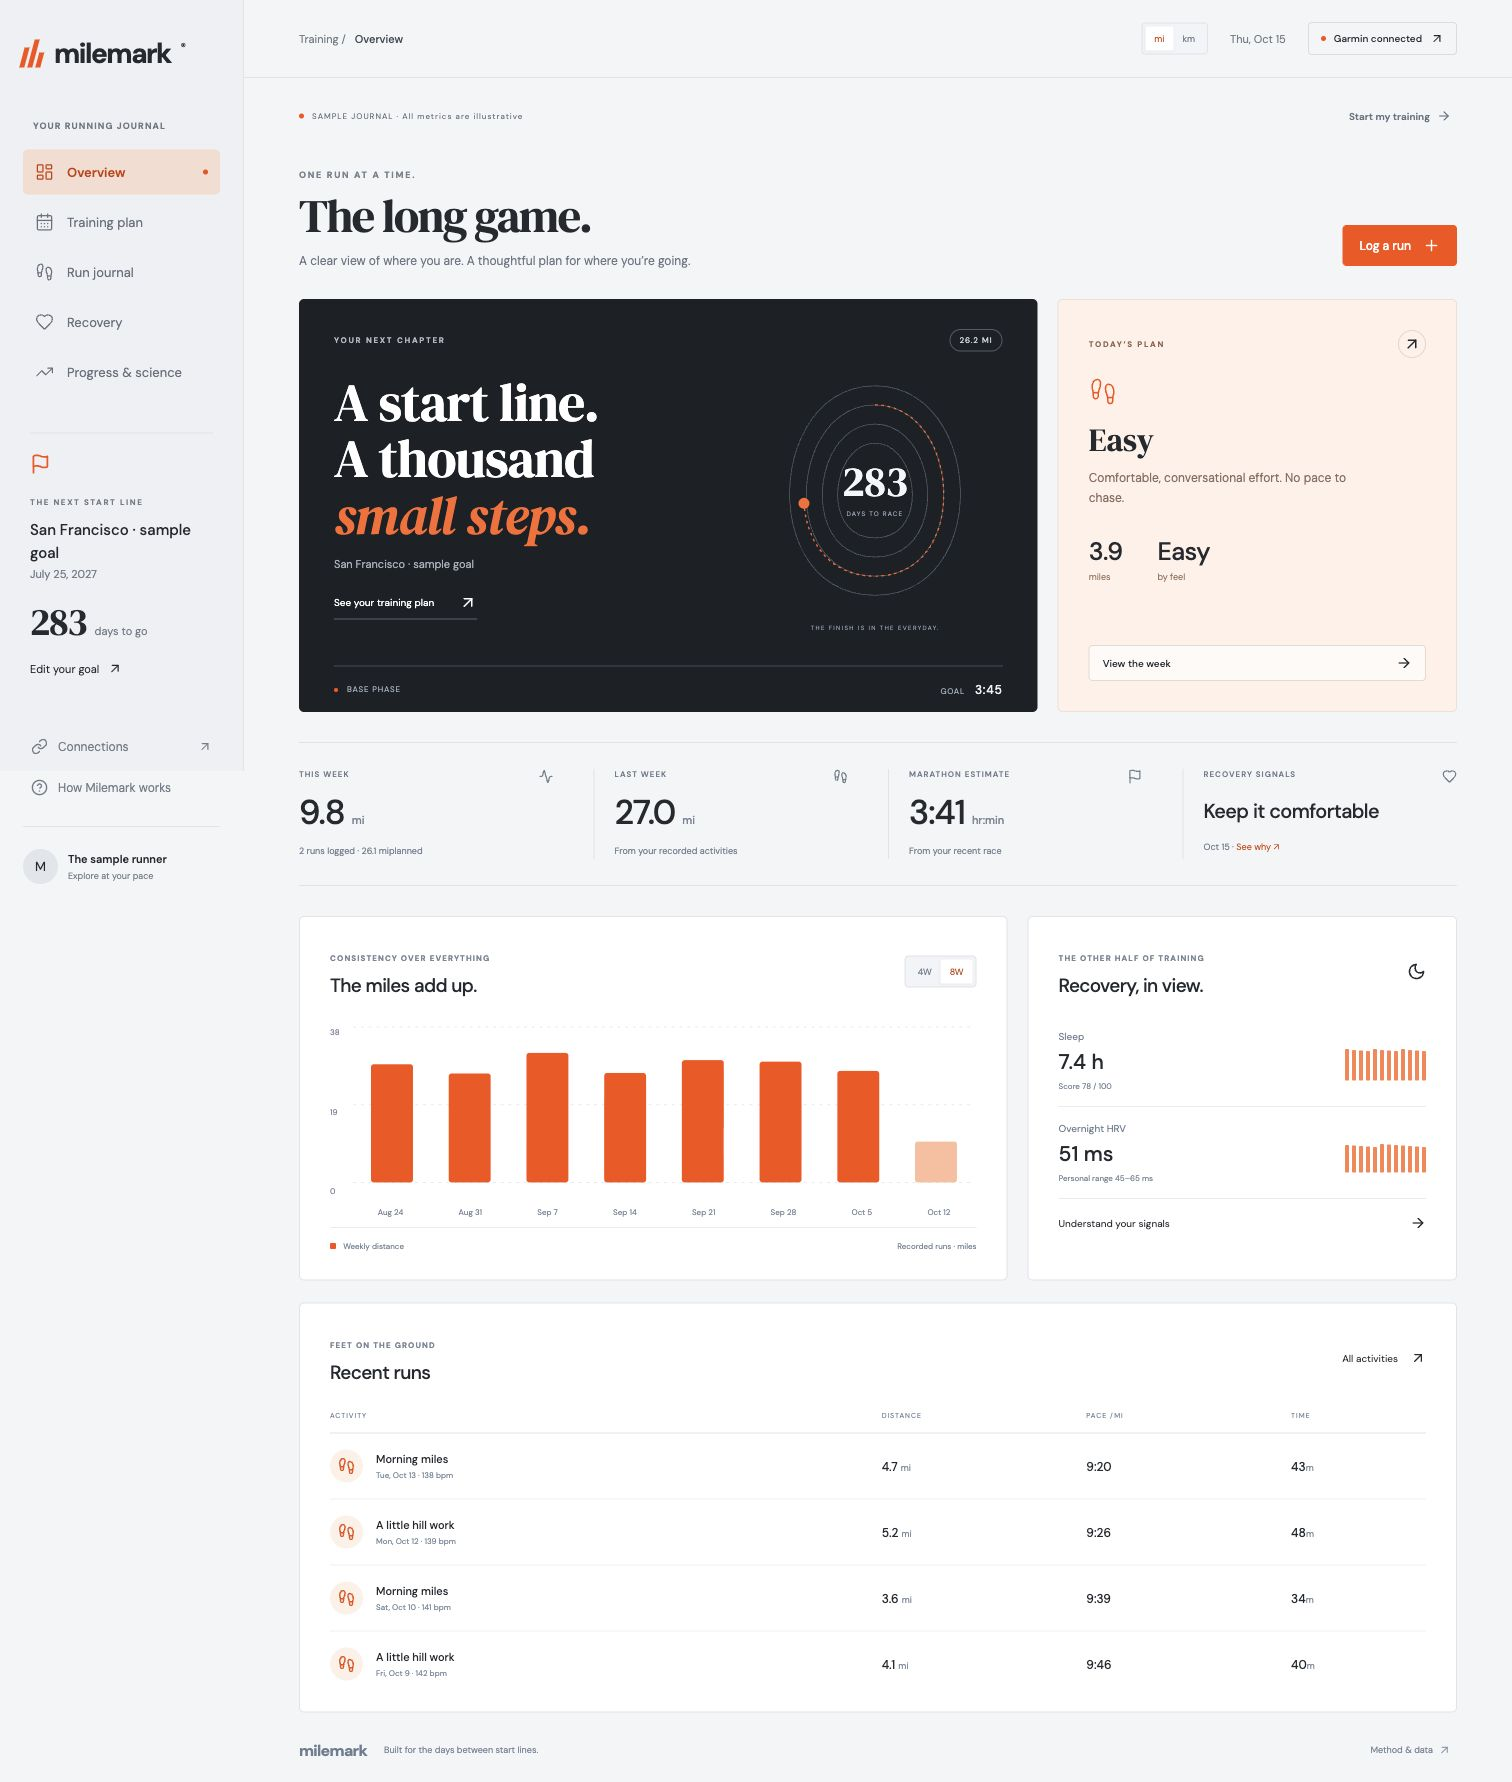
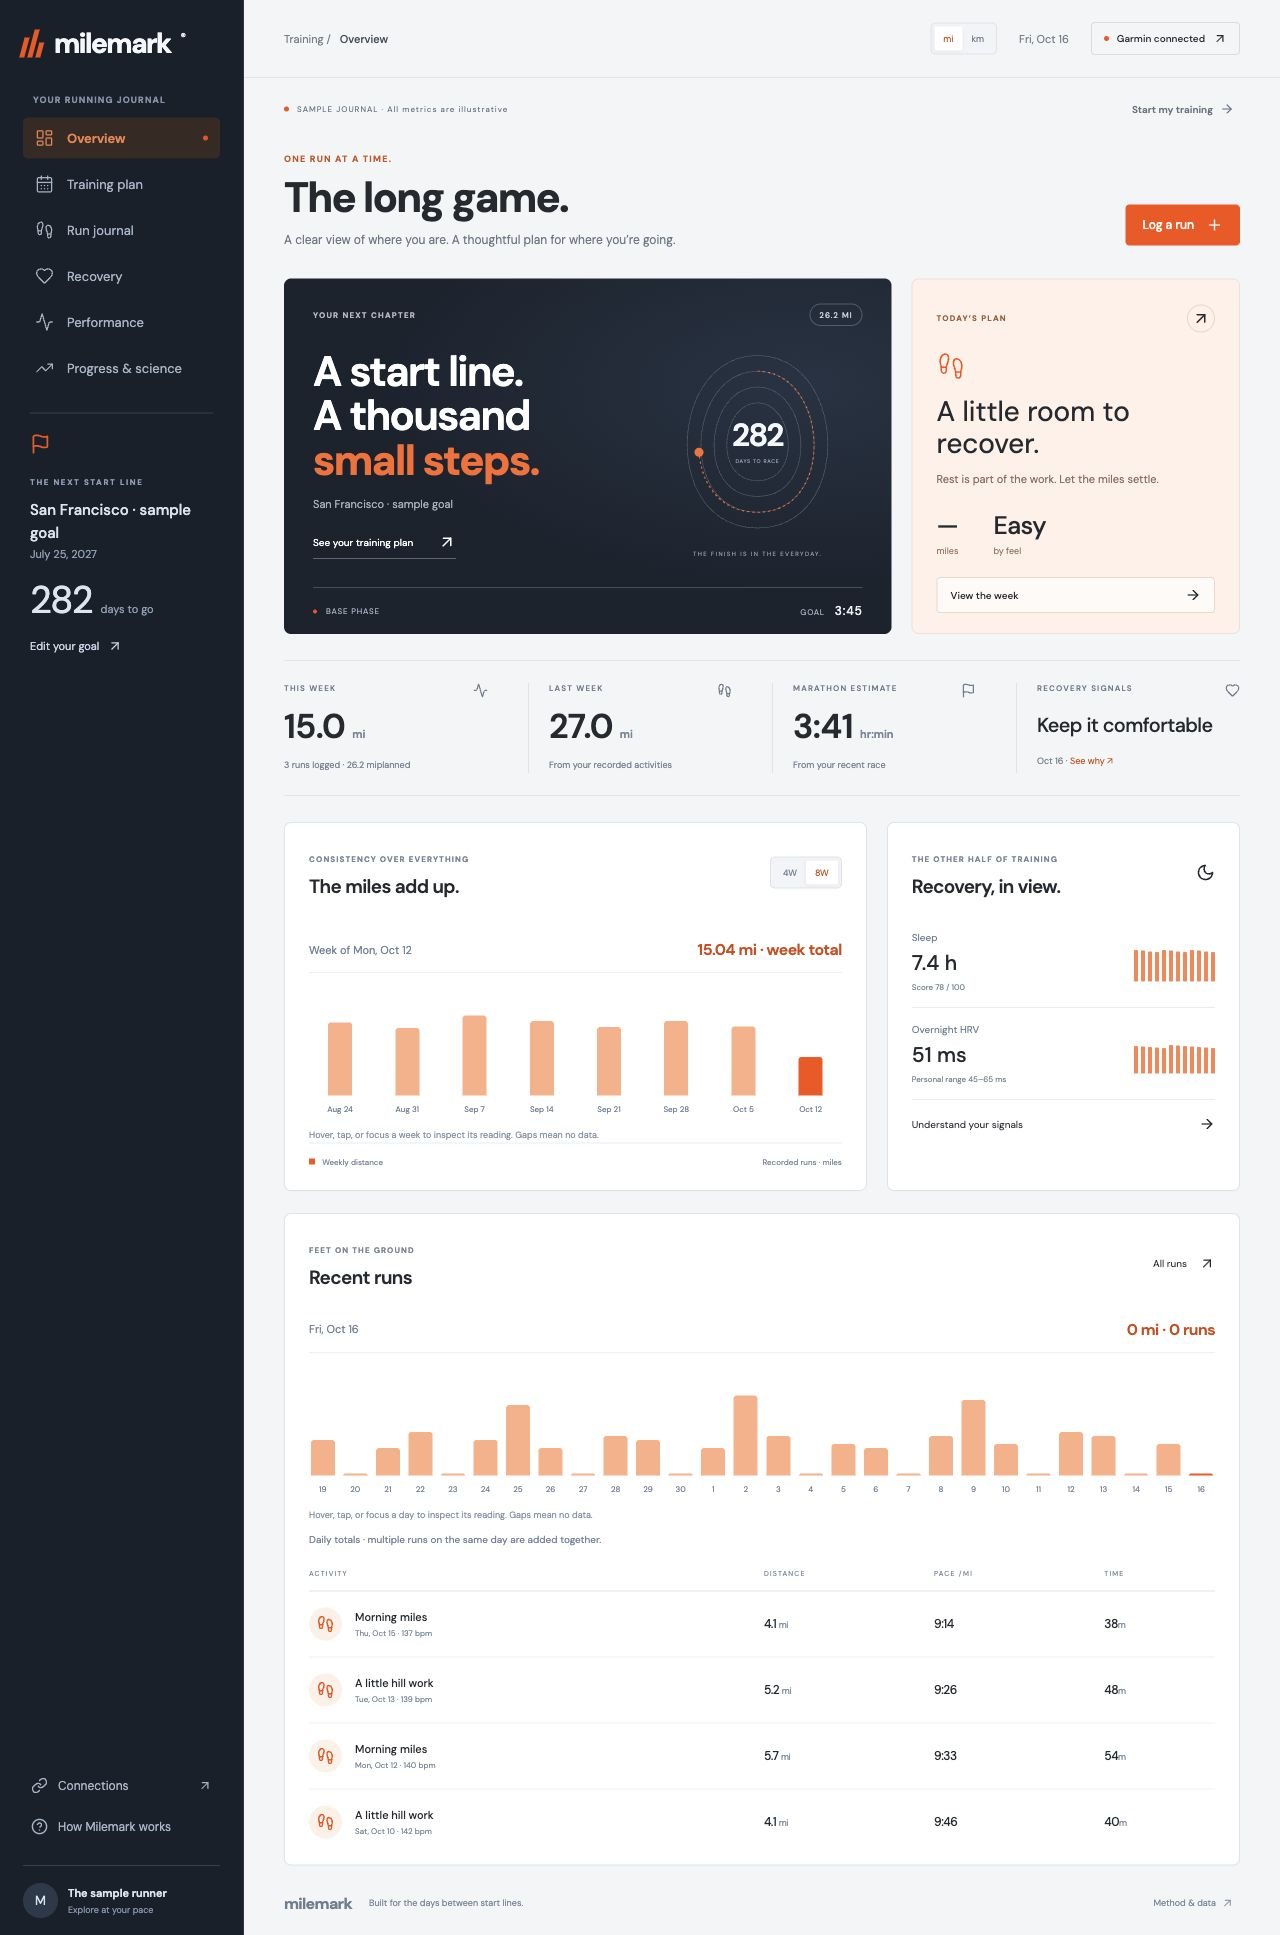
docs: refresh dashboard screenshot for latest UI

diff --git a/README.md b/README.md
@@ -2,7 +2,7 @@
 
 **The long game.** A personal marathon training dashboard built with React, TypeScript, and Python. A bright orange and charcoal interface brings your training plan, run journal, and recovery history together.
 
-![Milemark dashboard](docs/dashboard.jpg)
+![Milemark dashboard with inspectable weekly mileage and daily running history](docs/dashboard.jpg)
 
 ## What works
 
